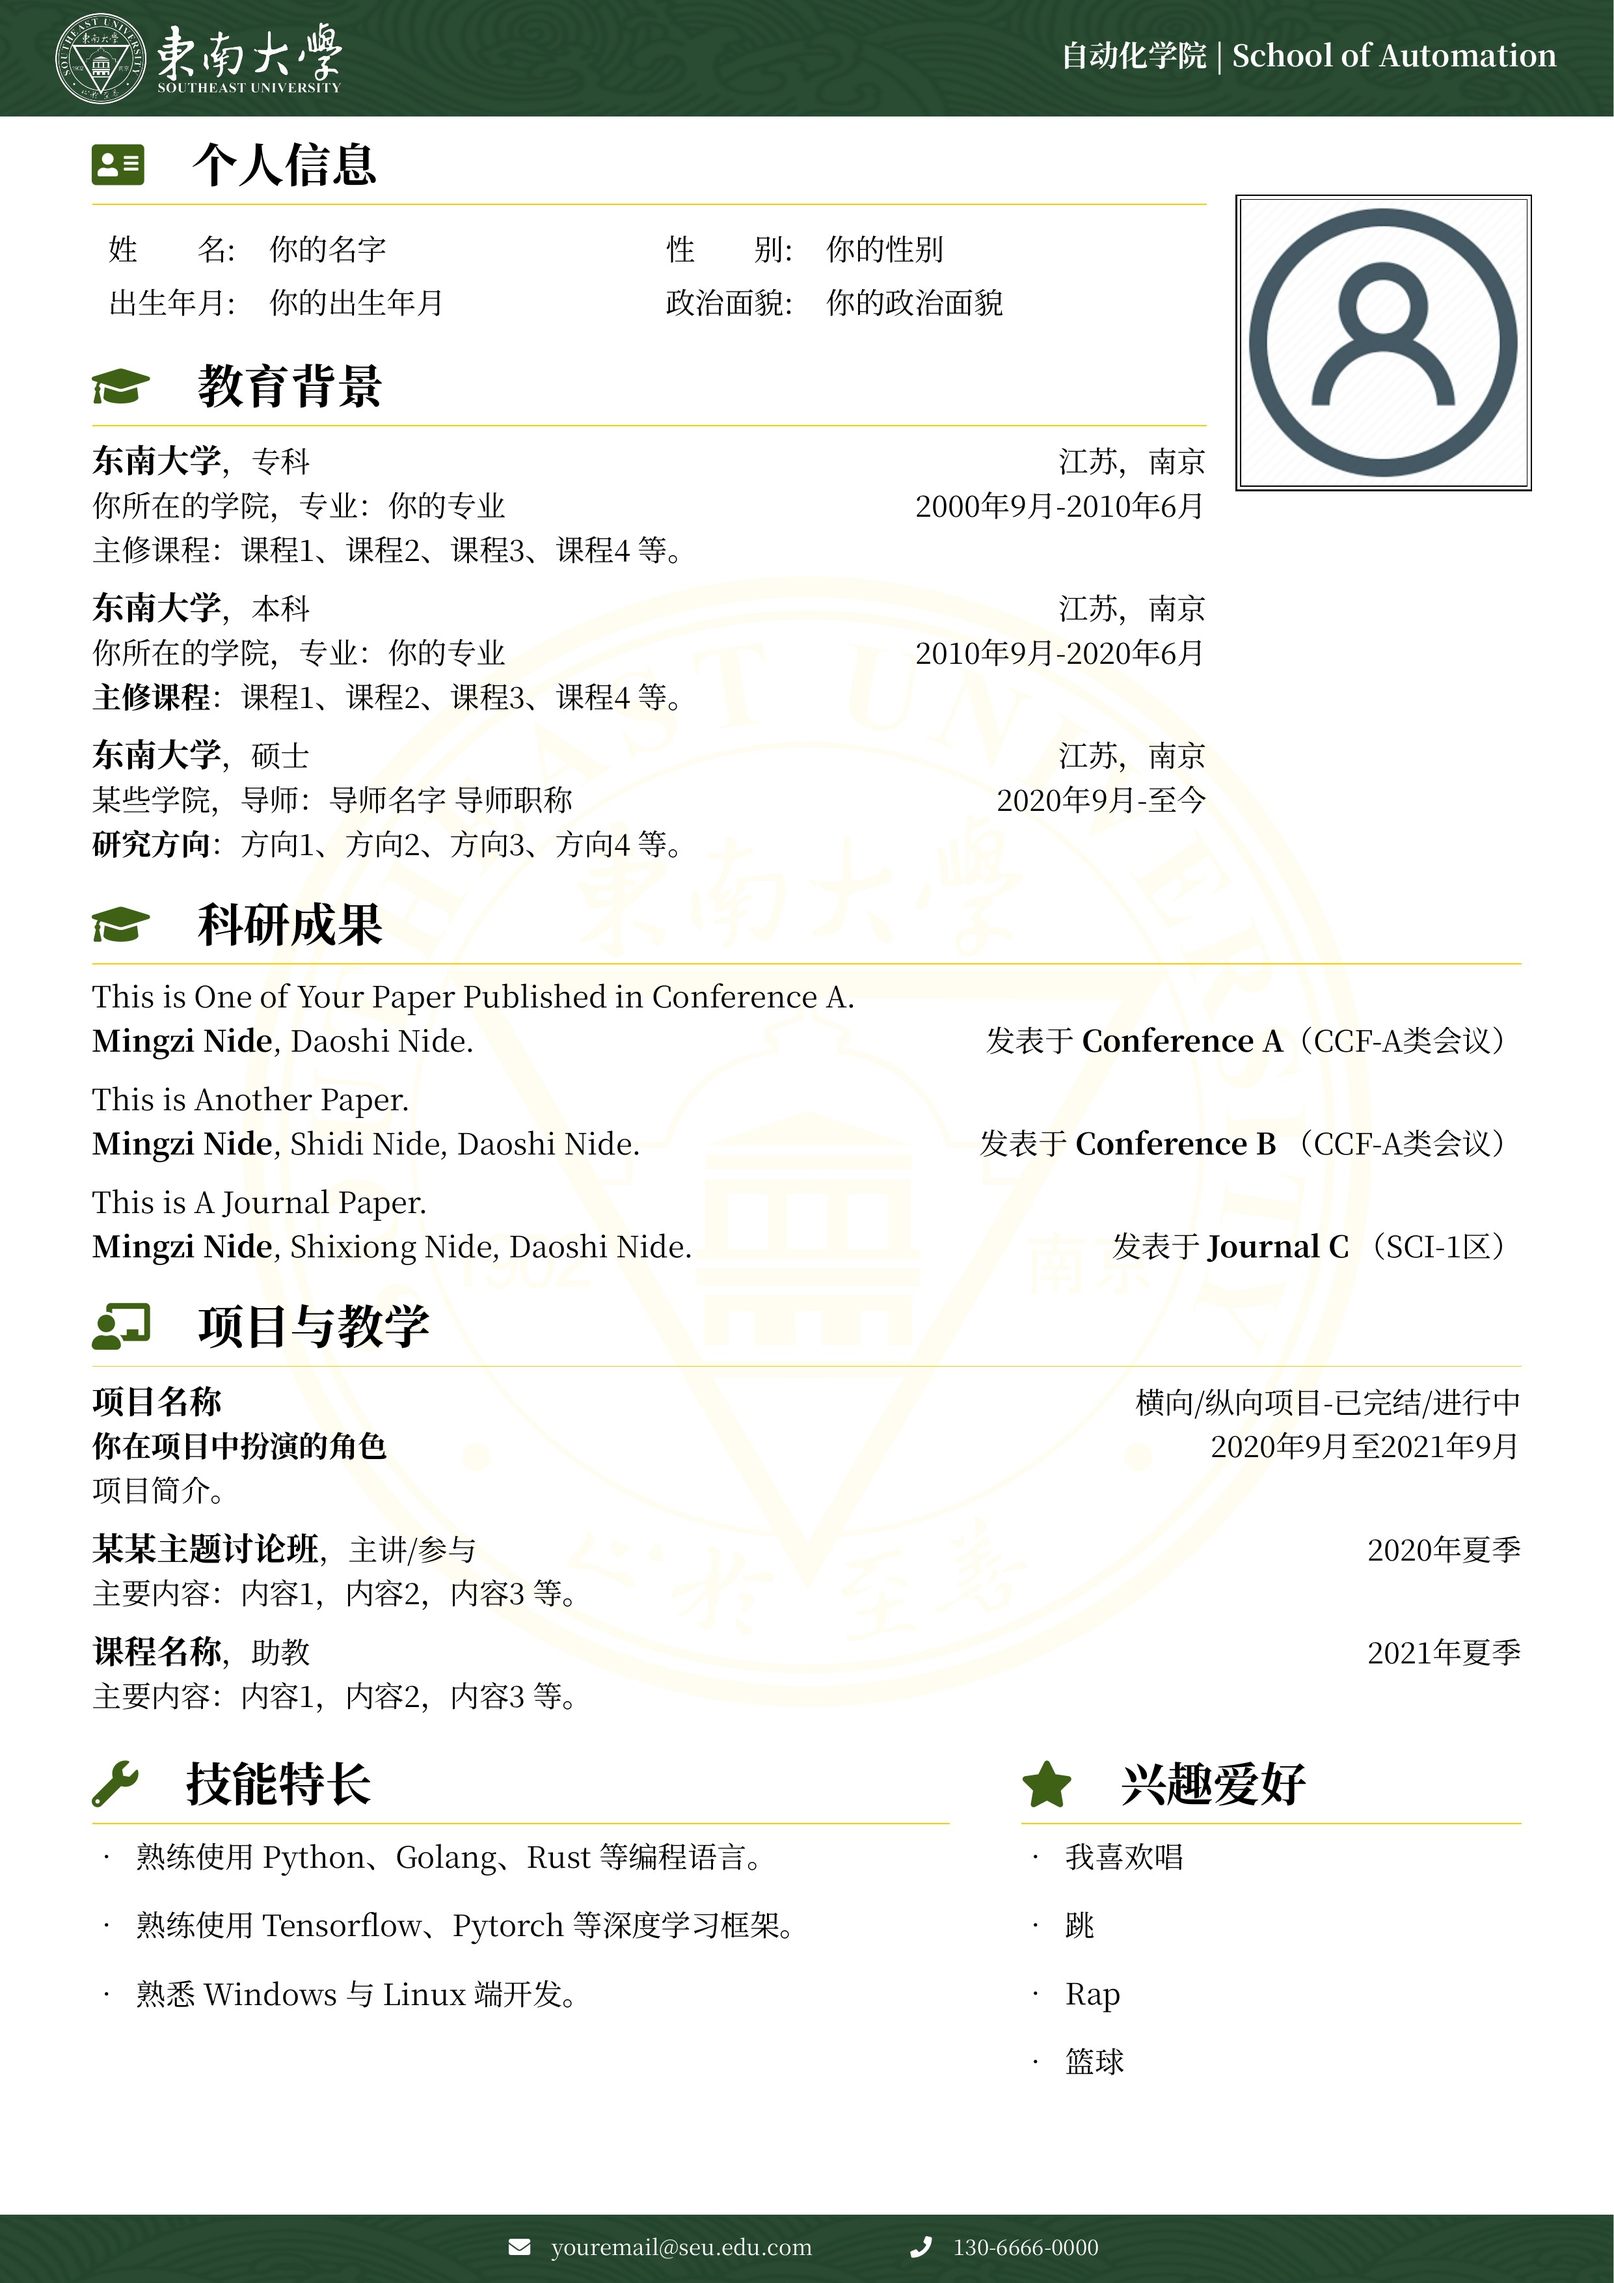
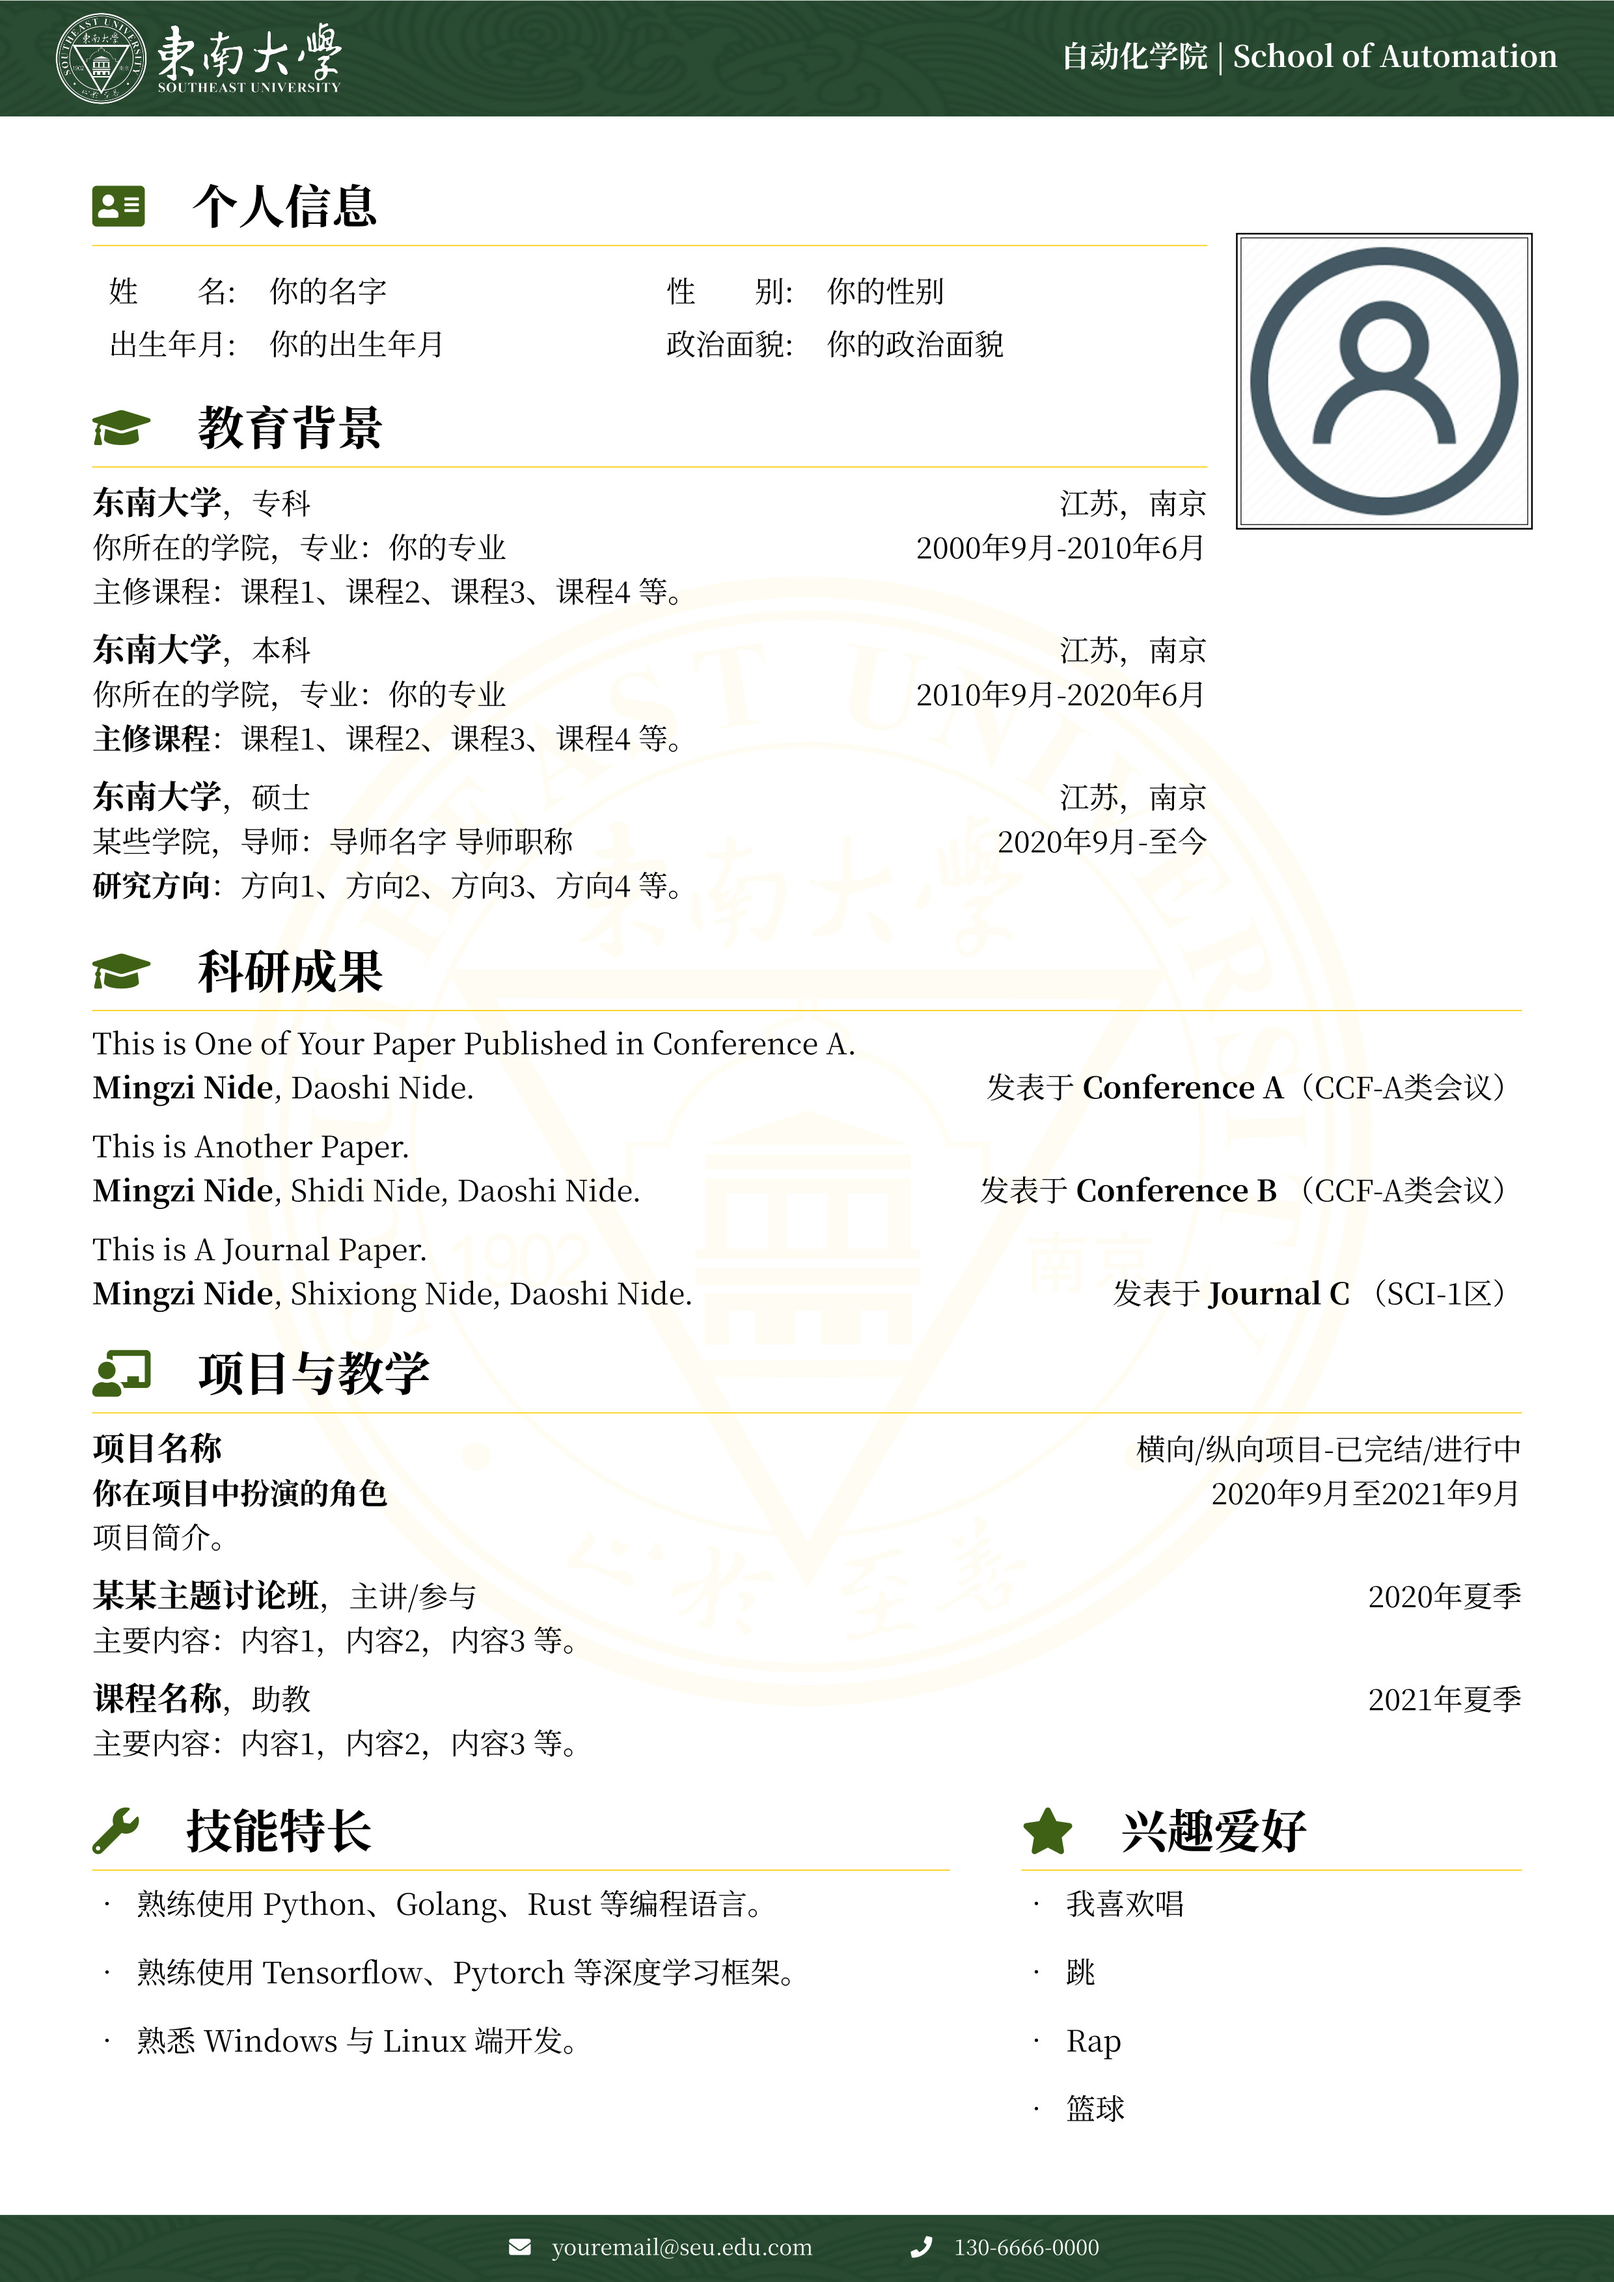
调整了 minipage 相关的排版

diff --git a/main.tex b/main.tex
@@ -128,7 +128,8 @@
     % 简历正文
     %%%%%%%%%%%%%%%%%%%%
 
-    \begin{minipage}[b]{0.78\textwidth}
+    \begin{minipage}[b]{\textwidth} % 为了方便排版，将双栏内容装在一个额外的 minipage 中
+    \begin{minipage}[t]{0.78\textwidth}
         % 个人信息
         % \faGraduationCap这类\fa开头的都是font awesome里的logo，想换成其他logo的话，可以看一下附带的fontawsome.pdf，自行替换。
         \section{\makebox[\widthof{\faAddressCard}][c]{\color{primary_color}{\faAddressCard}}\quad 个人信息}
@@ -156,14 +157,15 @@
         {\large \textbf{东南大学}}，硕士 \hfill {江苏，南京} \\
         {{某些学院}}，导师：\href{导师的个人主页.site}{导师名字}\ 导师职称 \hfill {2020年9月-至今} \\
         \textbf{研究方向}：方向1、方向2、方向3、方向4\ 等。
-    \end{minipage}  \ % 这里添加了一个空格，为了让 minipage 后的行间距和普通段落相同
+    \end{minipage}
     \hfill
     % 右半边，照片，比例占行宽20%
-    \begin{minipage}[b]{0.2\textwidth}
+    \begin{minipage}[t]{0.2\textwidth}
+        \vspace{2em} % 照片上侧内容
         \setlength{\fboxsep}{0pt}
         \doublebox{\includegraphics[width=\linewidth]{images/avatar.png}}
-        \vspace{11em} % 照片下方的空白区域，需要随照片高度调整
-    \end{minipage}
+    \end{minipage}        
+    \end{minipage} \ % 这里添加了一个空格，为了让 minipage 后的行间距和普通段落相同
 
     % 科研成果
     \section{\makebox[\widthof{\faGraduationCap}][c]{\color{primary_color}{\faGraduationCap}}\quad 科研成果}
